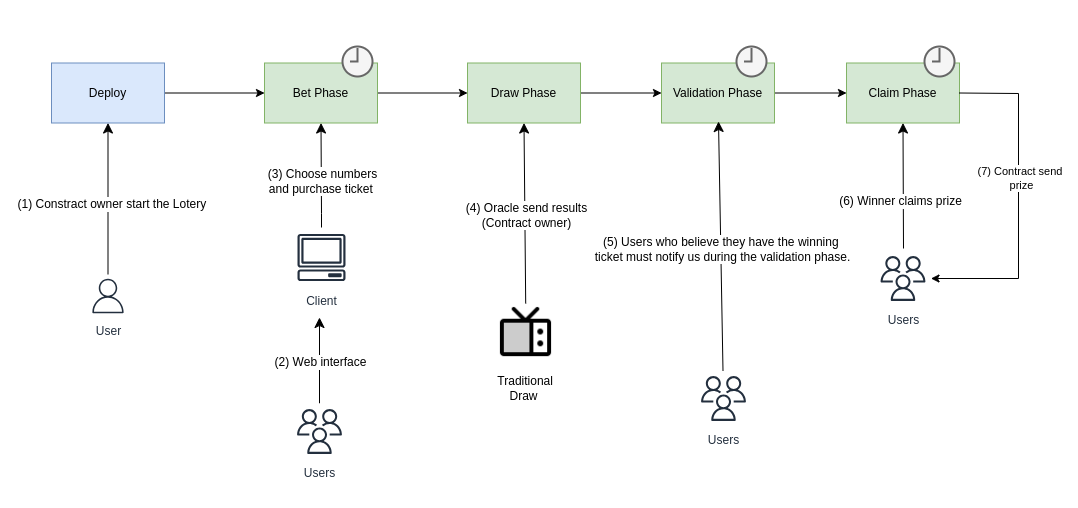
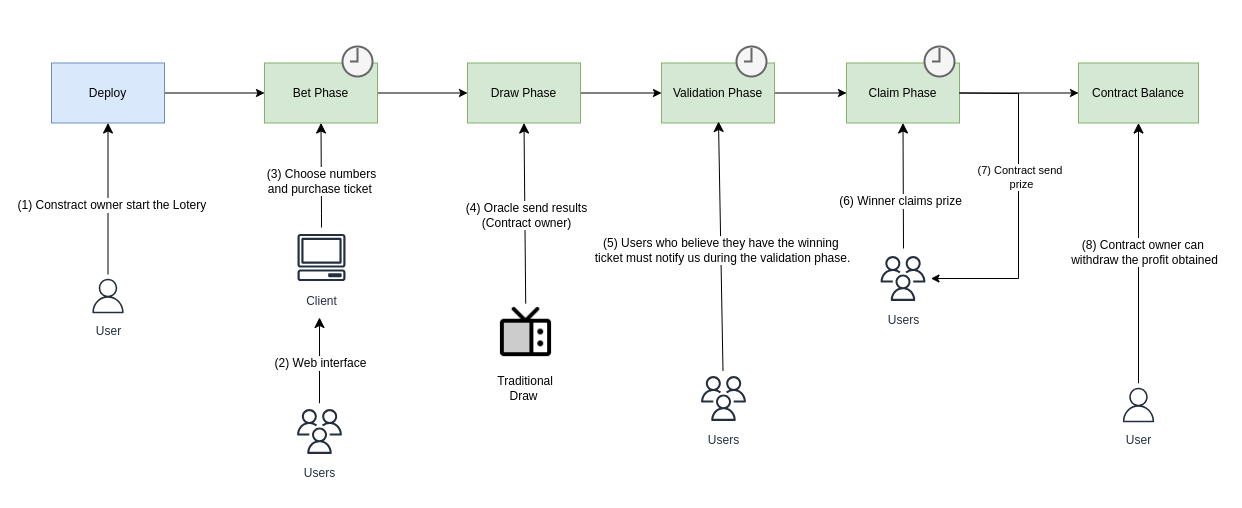
fix: test and update readme

diff --git a/src/tests/test_owner_clain_balance.py b/src/tests/test_owner_clain_balance.py
@@ -2,9 +2,13 @@ import pytest
 import brownie
 from brownie import chain, reverts
 
-def test_onwer_clain_balance(lottery, accounts):
+def test_owner_clain_balance(lottery, accounts):
     owner = lottery.lottery()[1]
     user = accounts[1]
+
+    # --- Buy ticket ---
+    lottery.buy_ticket(1, [1,2,3,4,5,6], {"from": user, "value": 5})
+    lottery.buy_ticket(1, [1,2,3,4,5,6], {"from": user, "value": 5})
 
     # --- End Betting Phase ---
     chain.sleep(lottery.lottery()[6] - chain.time() + 1)
@@ -22,12 +26,6 @@ def test_onwer_clain_balance(lottery, accounts):
     lottery.finish_validation_time({"from": owner})
 
     # --- End Claim Phase ---
-    # Not contract owner
-    lottery.finish_claim_time({"from": user})
-
-    # Not over
-    lottery.finish_claim_time({"from": owner})
-
     claim_duration = lottery.lottery()[18]  # claim_time_duration
     chain.sleep(claim_duration + 1)
     chain.mine()
@@ -38,12 +36,17 @@ def test_onwer_clain_balance(lottery, accounts):
     assert lottery.lottery()[19] == True
 
     # --- Owner Claim Balance ---
-    initial_balance = owner.balance()
-    claim_tx = lottery.claim_balance({"from": owner})
-    claim_tx.wait(1)
-    final_balance = owner.balance()
-    chain.mine()
-    assert final_balance > initial_balance, "Owner's balance did not increase after claiming"
+
+    # Not contract owner
+    with pytest.raises(ValueError) as exc_info:
+        lottery.claim_contract_balance({"from": user})
+    assert "Only contract owner can call this" in str(exc_info.value)
+
+    # Contract owner
+    tx = lottery.claim_contract_balance({"from": owner})
+    assert "PrizeClaimed" in tx.events
+    assert tx.events["PrizeClaimed"]["user"] == owner
+    assert tx.events["PrizeClaimed"]["amount"] == 10
 
 
 

diff --git a/README.md b/README.md
@@ -49,6 +49,8 @@ Players who previously completed the validation (validation phase) and were conf
 
 After the lottery closes, no user will be able to request the withdrawal of the prize.
 
+Contract owner can withdraw the profit obtained.
+
 ### Contract Constraints
 
 1. Maximum number of tickets per player limited to 10
@@ -170,6 +172,7 @@ Brownie environment is ready.
 >>> Ctrl + D
 
 # Run tests (src/ folder)
+$ export PYTHONWARNINGS="ignore::UserWarning"
 $ brownie test
 
 # The default network is defined in the brownie-config.yaml file as ganache network
@@ -177,5 +180,6 @@ $ brownie test
 
 ```bash
 # Run only one test file:
+$ export PYTHONWARNINGS="ignore::UserWarning"
 $ brownie test tests/test_buy_ticket.py::test_buy_ticket
 ```
